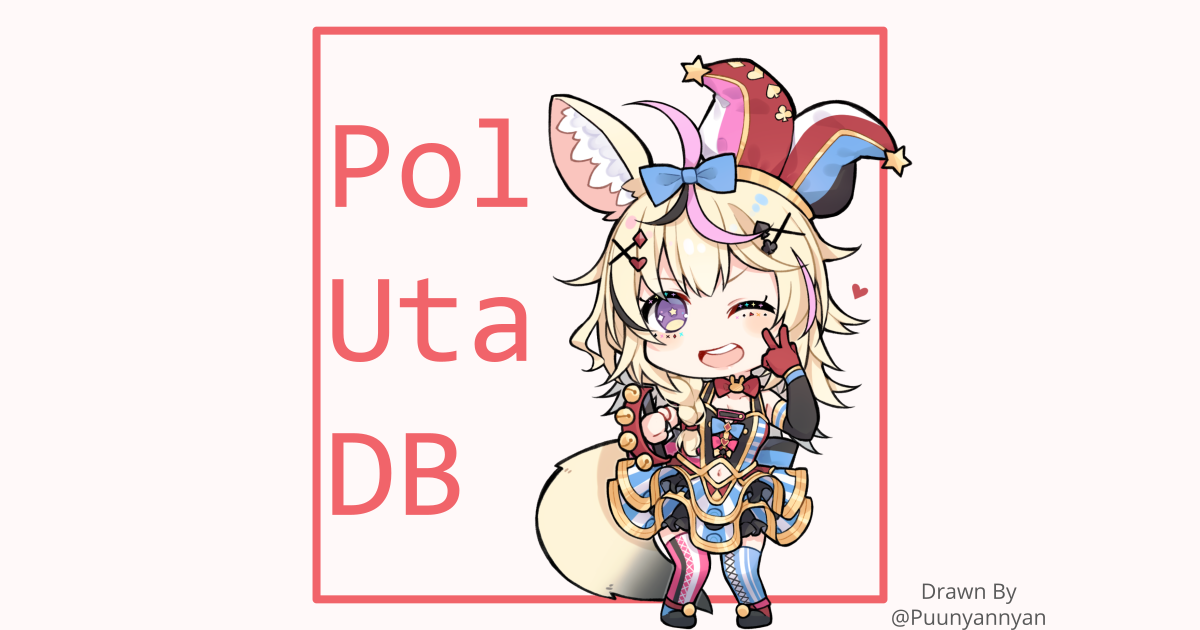
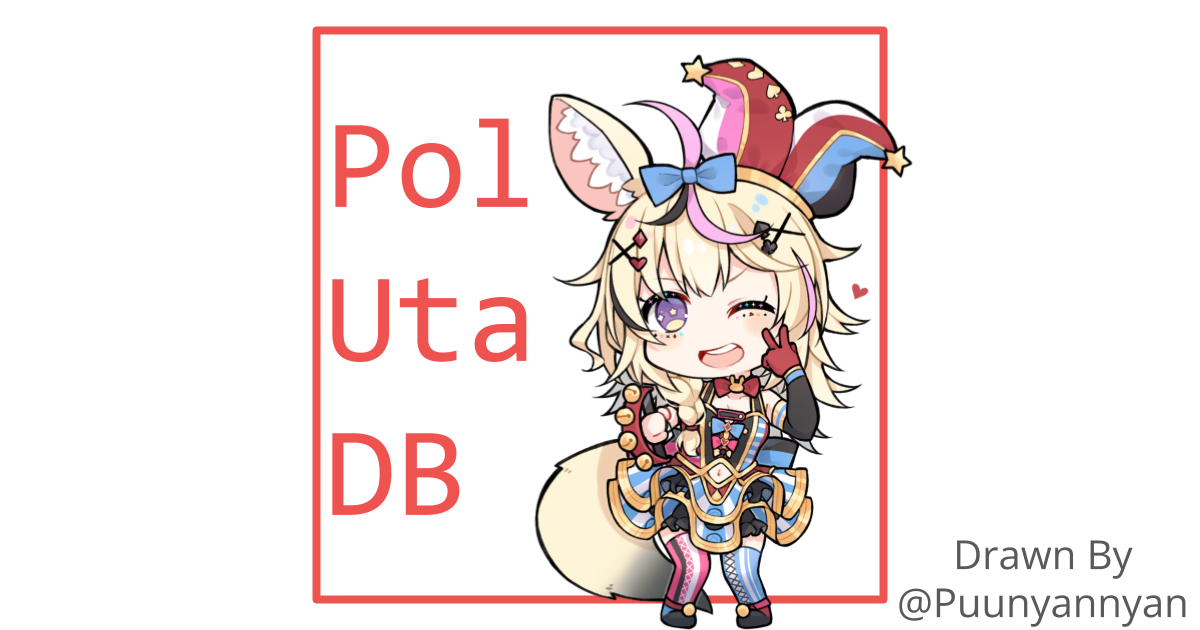
fix: update design (#44)
* change color theme

* fix: use default Card and Paper

* fix: 文言変更

diff --git a/src/pages/_document.tsx b/src/pages/_document.tsx
@@ -29,7 +29,7 @@ export default class MyDocument extends Document {
             content='ホロライブ所属のVTuber 尾丸ポルカさんの歌（通称：ぽるうた）が検索できます'
           />
           <link rel='icon' href='/tent-b92731.png' />
-          <meta name='theme-color' content='#F1646A' />
+          <meta name='theme-color' content='#ef5350' />
           <link rel='apple-touch-icon' href='/tent-f1646a.png' />
           <link rel='manifest' href='/manifest.json' />
           <script async={true} src={`https://www.googletagmanager.com/gtag/js?id=${GA_TRACKING_ID}`} />

diff --git a/src/components/select/Artist.tsx b/src/components/select/Artist.tsx
@@ -32,7 +32,7 @@ export default function Artist() {
         value={value === -1 ? '' : value}
         getOptionSelected={(option) => option.i == value}
         getOptionLabel={(option) => option.name}
-        renderInput={(params) => <TextField {...params} label='アーティストを選択' />}
+        renderInput={(params) => <TextField {...params} label='アーティスト' />}
       />
     </FormControl>
   );

diff --git a/src/lib/style.tsx b/src/lib/style.tsx
@@ -1,0 +1,14 @@
+import React from 'react';
+import { Paper } from '@material-ui/core';
+import { styled } from '@material-ui/core/styles';
+
+export const Chartdiv = styled('div')({
+  width: '100%',
+  height: '600px',
+});
+
+export const Pane: React.FC = ({ children }) => (
+  <Paper variant='outlined' style={{ padding: 20, marginTop: 10, marginBottom: 10 }}>
+    {children}
+  </Paper>
+);

diff --git a/src/components/select/Song.tsx b/src/components/select/Song.tsx
@@ -32,7 +32,7 @@ export default function Song() {
         value={value === -1 ? '' : value}
         getOptionSelected={(option) => option.i == value}
         getOptionLabel={(option) => option.title}
-        renderInput={(params) => <TextField {...params} label='曲を選択' />}
+        renderInput={(params) => <TextField {...params} label='曲' />}
       />
     </FormControl>
   );

diff --git a/src/components/layout/Deformed.tsx b/src/components/layout/Deformed.tsx
@@ -2,7 +2,7 @@ import * as React from 'react';
 
 export default function Deformed() {
   return (
-    <div style={{ backgroundColor: '#fff8f8', textAlign: 'center' }}>
+    <div style={{ backgroundColor: '#fff', textAlign: 'center' }}>
       {screen.width <= 500 && (
         <img src='/card.png' alt='OmaruPolka' title='OmaruPolka' style={{ width: screen.width }} />
       )}

diff --git a/src/components/layout/Header.tsx b/src/components/layout/Header.tsx
@@ -10,7 +10,7 @@ export default function Header() {
 
   return (
     <header>
-      <AppBar position='fixed' style={{ backgroundColor: '#f1646a' }}>
+      <AppBar position='fixed' style={{ backgroundColor: '#ef5350' }}>
         <Toolbar style={{ position: 'relative' }}>
           <div style={{ flexGrow: 1 }}>{isMobile && <MobileMenu />}</div>
           <h4

diff --git a/src/components/top/Card.tsx b/src/components/top/Card.tsx
@@ -9,7 +9,7 @@ export default function MyCard(props: { link: string; title: string; icon: any }
   return (
     <Grid item xs={12} sm={6}>
       <Link href={props.link} prefetch={false}>
-        <Card style={{ borderRadius: '5px' }}>
+        <Card>
           <CardActionArea>
             <CardContent>
               <h4 style={{ margin: '20px 0' }}>

diff --git a/src/components/select/Genre.tsx b/src/components/select/Genre.tsx
@@ -26,7 +26,7 @@ export default function Genre() {
   ));
   return (
     <FormControl className={classes.formControl}>
-      <InputLabel>曲のジャンルを選択</InputLabel>
+      <InputLabel>曲のジャンル</InputLabel>
       <Select inputRef={ref} {...inputProps} defaultValue=''>
         <MenuItem value={-1}>-</MenuItem>
         {genres}

diff --git a/src/components/select/Type.tsx b/src/components/select/Type.tsx
@@ -26,7 +26,7 @@ export default function Type() {
   ));
   return (
     <FormControl className={classes.formControl}>
-      <InputLabel>動画のタイプを選択</InputLabel>
+      <InputLabel>動画のタイプ</InputLabel>
       <Select inputRef={ref} {...inputProps} defaultValue=''>
         <MenuItem value={-1}>-</MenuItem>
         {types}

diff --git a/src/components/select/FullTextSearch.tsx b/src/components/select/FullTextSearch.tsx
@@ -15,7 +15,6 @@ export default function FullTextSearch() {
 
   return (
     <TextField
-      label='全文検索'
       inputRef={ref}
       {...inputProps}
       InputProps={{
@@ -26,6 +25,7 @@ export default function FullTextSearch() {
         ),
       }}
       fullWidth
+      style={{ paddingTop: 16 }}
     />
   );
 }

diff --git a/src/components/select/Video.tsx b/src/components/select/Video.tsx
@@ -26,7 +26,7 @@ export default function Video() {
   ));
   return (
     <FormControl className={classes.formControl}>
-      <InputLabel>動画を選択</InputLabel>
+      <InputLabel>動画</InputLabel>
       <Select inputRef={ref} {...inputProps} defaultValue=''>
         <MenuItem value={-1}>-</MenuItem>
         {videos}

diff --git a/styles/globals.css b/styles/globals.css
@@ -1,8 +1,8 @@
 :root {
-  --theme-color: #f1646a;
+  --theme-color: #ef5350;
   --font-color: dodgerblue;
   --sub-theme-color: dodgerblue;
-  --bg-color: #fff8f8;
+  --bg-color: #fff;
 }
 #main {
   background-color: var(--bg-color);
